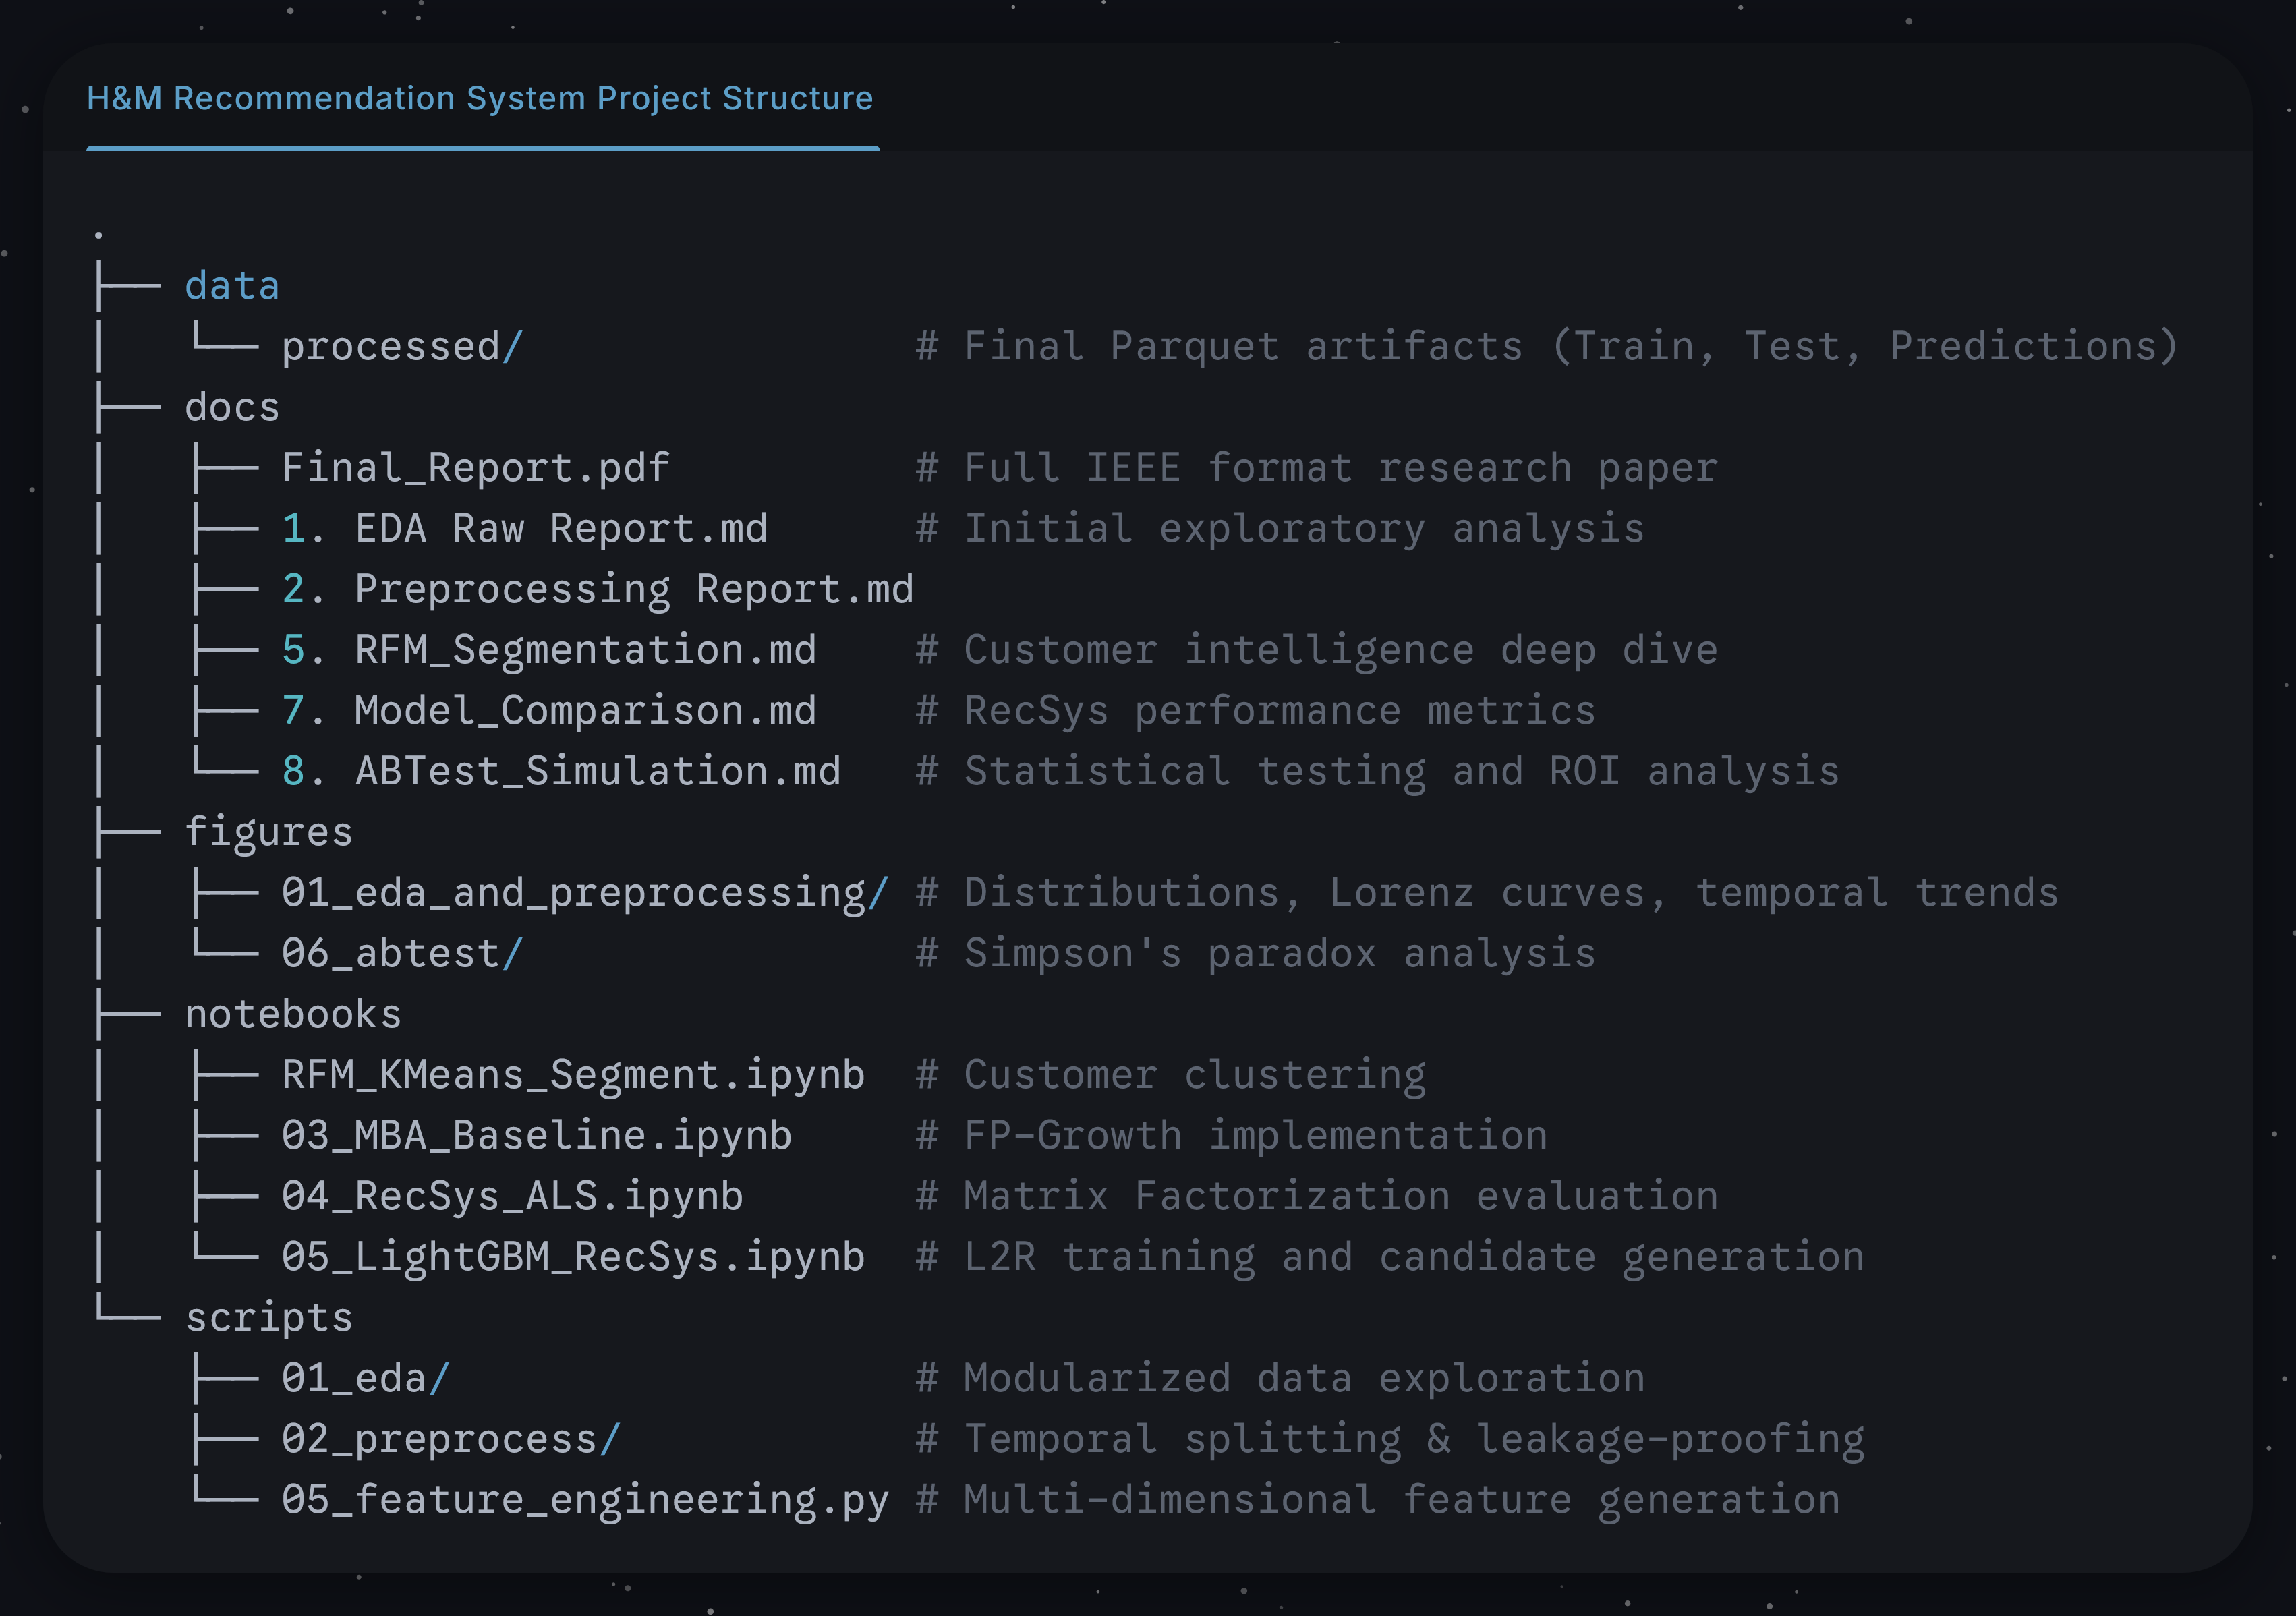
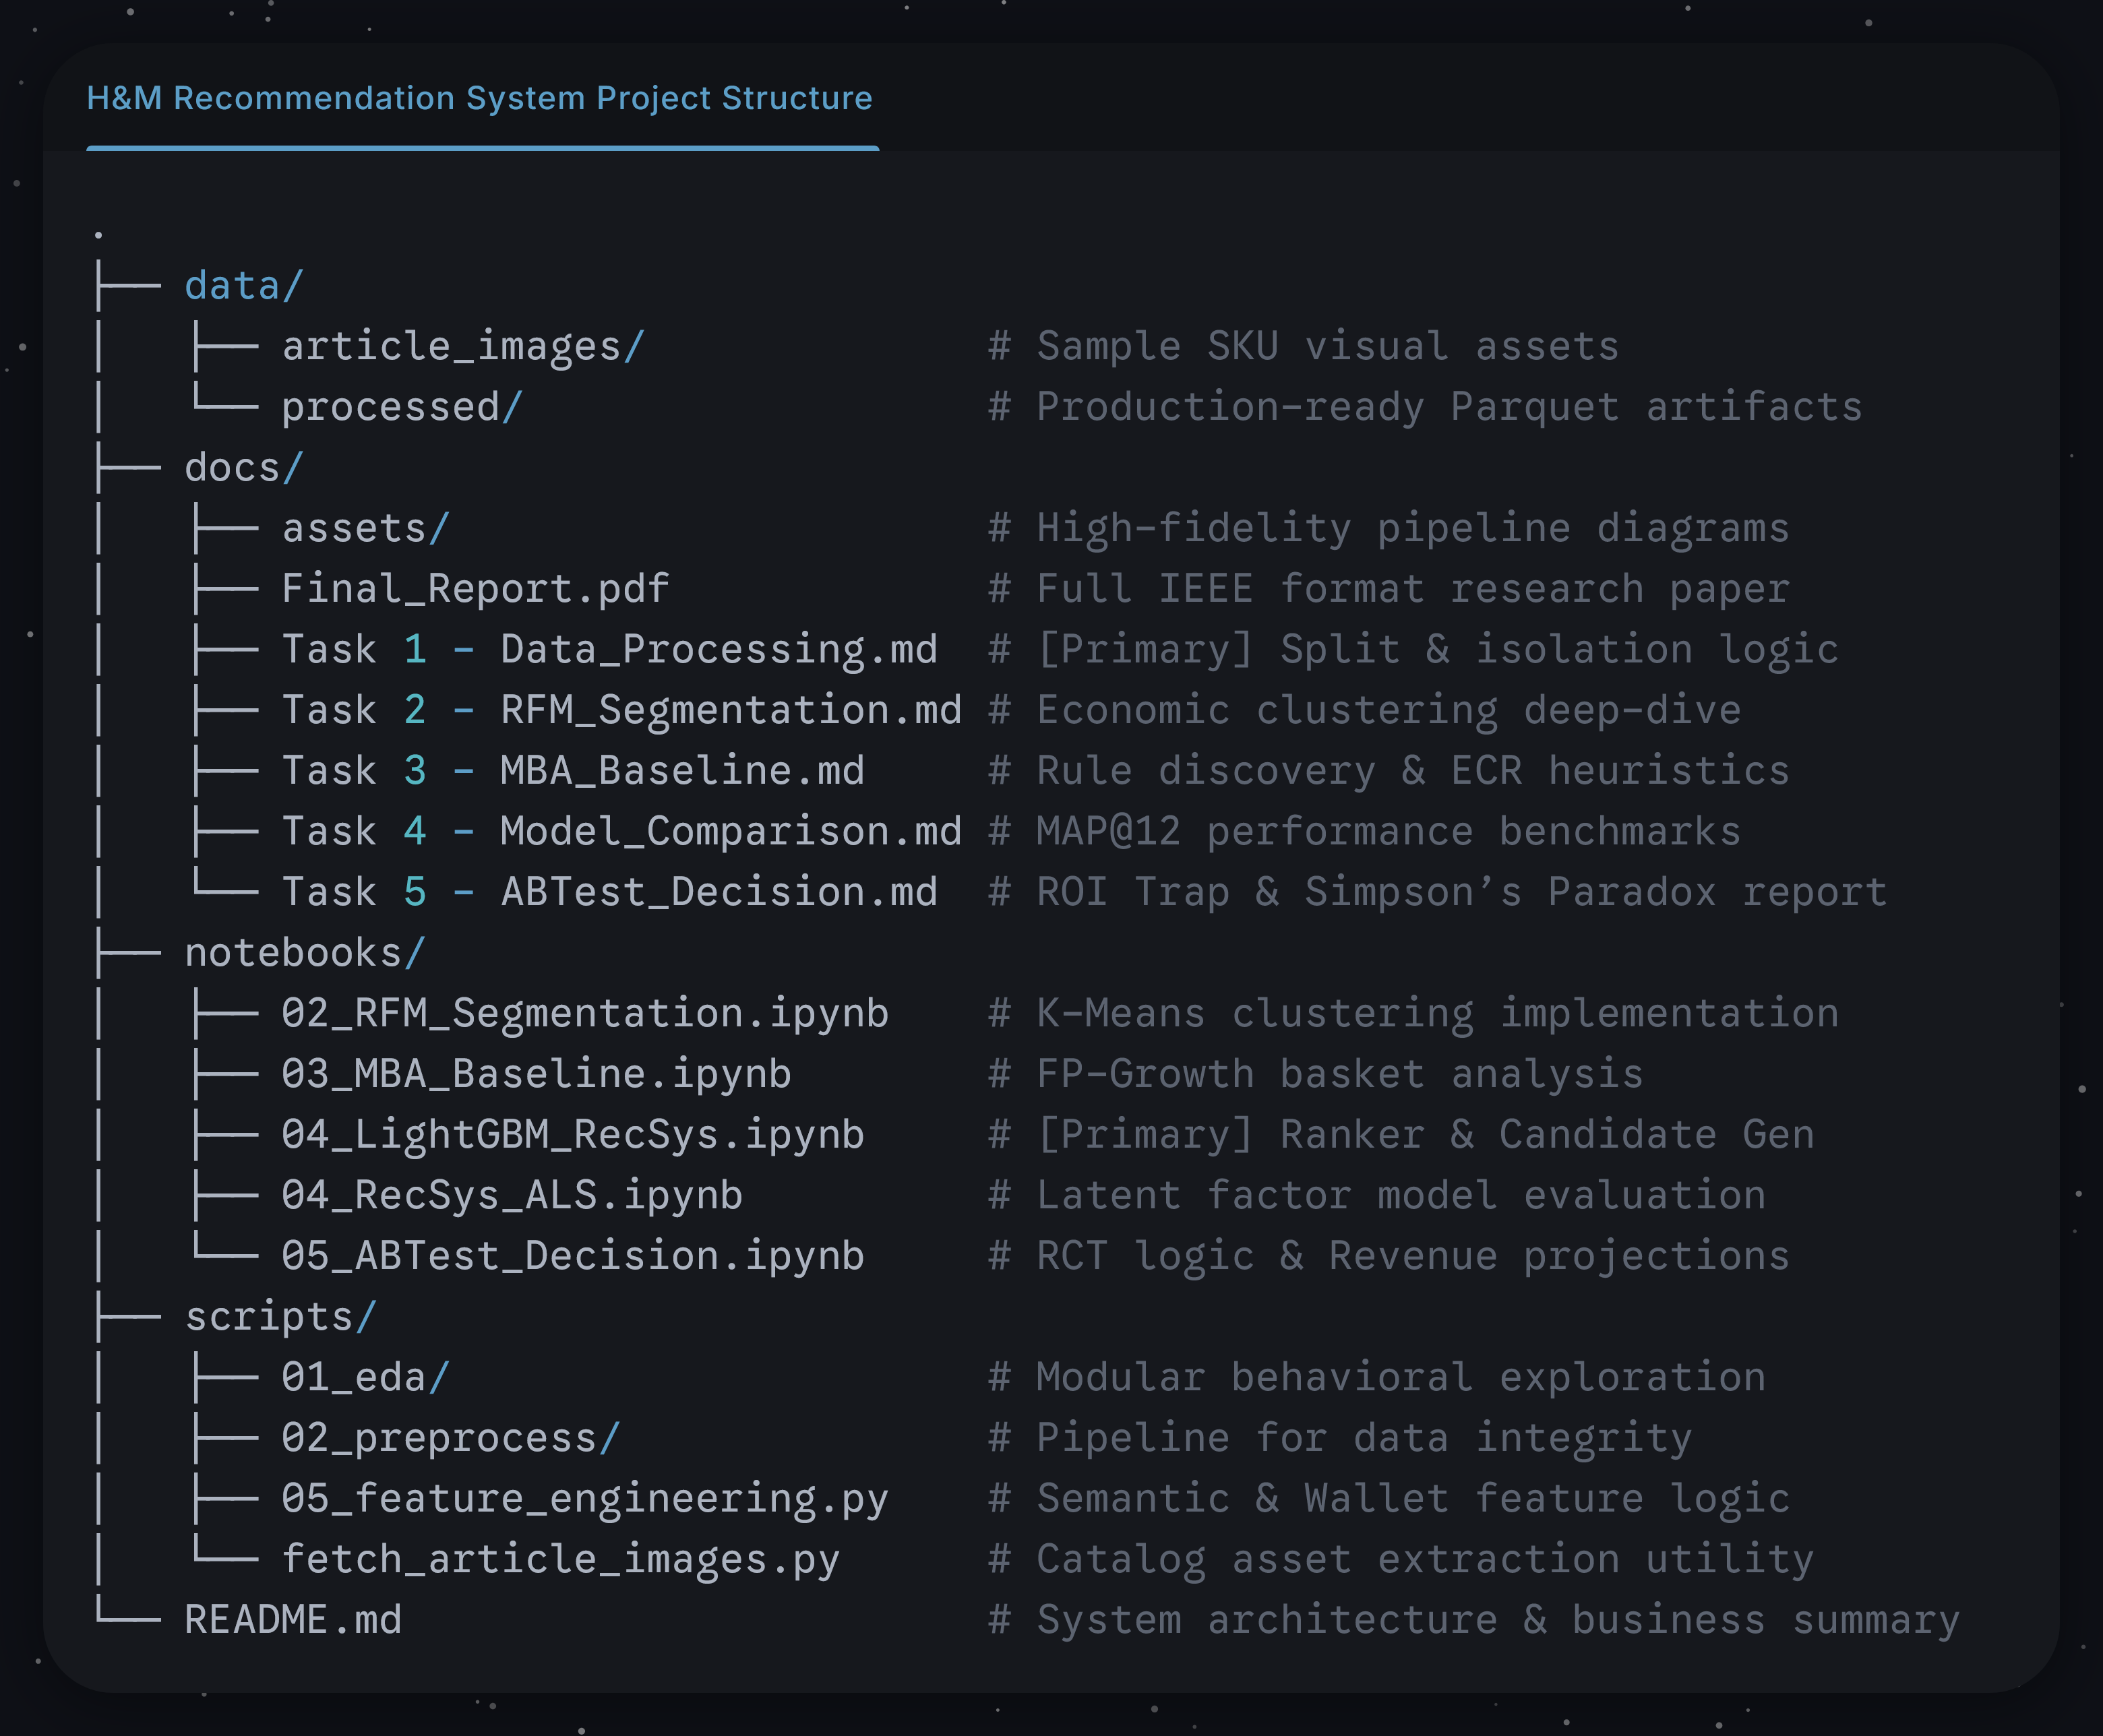
chore: finalize project documentation and structure renumbering

diff --git a/README.md b/README.md
@@ -23,9 +23,16 @@ The final LightGBM learning-to-rank model demonstrates a 71% uplift in conversio
 
 ```mermaid
 graph TD
-    A[Raw H&M Data<br/>31.7M Rows] --> B(Temporal Split &<br/>Strict Isolation)
-    B --> C[Train Set<br/>27.8M Interactions]
-    B --> D["Holdout Test Set<br/>28 Days | 989k Interactions"]
+    %% Pastel Color Palette Definitions
+    classDef data fill:#E3F2FD,stroke:#1565C0,stroke-width:1px,color:#1565C0;
+    classDef proc fill:#E8F5E9,stroke:#2E7D32,stroke-width:1px,color:#2E7D32;
+    classDef model fill:#F3E5F5,stroke:#7B1FA2,stroke-width:1px,color:#7B1FA2;
+    classDef biz fill:#FFF3E0,stroke:#E65100,stroke-width:2px,color:#E65100;
+
+    A[Raw H&M Data<br/>31.7M Rows]
+    B(Temporal Split &<br/>Strict Isolation)
+    C[Train Set<br/>27.8M Interactions]
+    D["Holdout Test Set<br/>28 Days | 989k Interactions"]
     
     C --> E[RFM Segmentation<br/>K-Means]
     C --> F[Feature Engineering<br/>Word2Vec, Stats]
@@ -41,6 +48,16 @@ graph TD
     
     I --> J((Business<br/>Simulation))
     G --> J
+
+    A --> B
+    B --> C
+    B --> D
+
+    %% Categorize Nodes
+    class A,C,D data;
+    class B,E,F proc;
+    class G,H,I model;
+    class J biz;
 ```
 
 ## 1. Data Foundation & Strict Temporal Isolation
@@ -50,6 +67,27 @@ Building a reliable recommender for fast fashion requires confronting severe pop
 ### The 28-Day Holdout Philosophy
 
 ```mermaid
+%%{init: { 'theme': 'base', 'themeVariables': { 
+    'primaryColor': '#1565C0',
+    'primaryTextColor': '#efefef',
+    'primaryBorderColor': '#1565C0',
+    'lineColor': '#efefef',
+    'secondaryColor': '#2E7D32',
+    'tertiaryColor': '#E65100',
+    'ganttBarBkgColor': '#1565C0',
+    'ganttBarBorderColor': '#efefef',
+    'ganttBarLabelColor': '#efefef',
+    'ganttCriticalBarFill': '#E65100',
+    'ganttCriticalBarStroke': '#efefef',
+    'ganttActiveBarFill': '#2E7D32',
+    'ganttActiveBarStroke': '#efefef',
+    'ganttSectionBkgColor': '#222',
+    'ganttSectionBkgColor2': '#333',
+    'titleColor': '#efefef',
+    'sectionTitleColor': '#efefef',
+    'gridLineColor': '#444',
+    'axisColor': '#efefef'
+}}}%%
 gantt
     title Temporal Architecture & Time Decay
     dateFormat  YYYY-MM-DD
@@ -154,17 +192,17 @@ Conversely, LightGBM generated massive uplifts in *every single segment*, effect
 
 ![Project Structure](docs/assets/project-structure.png)
 
-## 6. Members
+## 6. Contributions
 
 *   **Class:** DSEB 65A
 *   **Course:** Data Driven Marketing
 *   **Group:** Group 4
 
-| Student ID | Full Name         |
-| :--------- | :---------------- |
-| 11230517   | Vũ Ngọc Hồng Anh  |
-| 11230527   | Đỗ Tuấn Đạt       |
-| 11230553   | Hàn Chí Kiên      |
-| 11230570   | Phạm Hồng Minh    |
-| 11230584   | Chu Bích Phương   |
-| 11230588   | Nguyễn Thanh Thảo |
+| Student ID | Full Name         | Task Assignment                                                          |
+| :--------- | :---------------- | :----------------------------------------------------------------------- |
+| 11230517   | Vũ Ngọc Hồng Anh  | Customer Intelligence, RFM Segmentation & K-Means Profiling              |
+| 11230527   | Đỗ Tuấn Đạt       | Algorithmic Architecture, LightGBM Ranker & Personalization              |
+| 11230553   | Hàn Chí Kiên      | Exploratory Data Analysis, Temporal Isolation & Pipeline Engineering     |
+| 11230570   | Phạm Hồng Minh    | Association Discovery, MBA Baseline & ECR Heuristics                     |
+| 11230584   | Chu Bích Phương   | Data Integrity, Validation & Final Report Compiler                       |
+| 11230588   | Nguyễn Thanh Thảo | Lead. Strategic Impact, A/B Testing - RCT Simulation & Business Analysis |